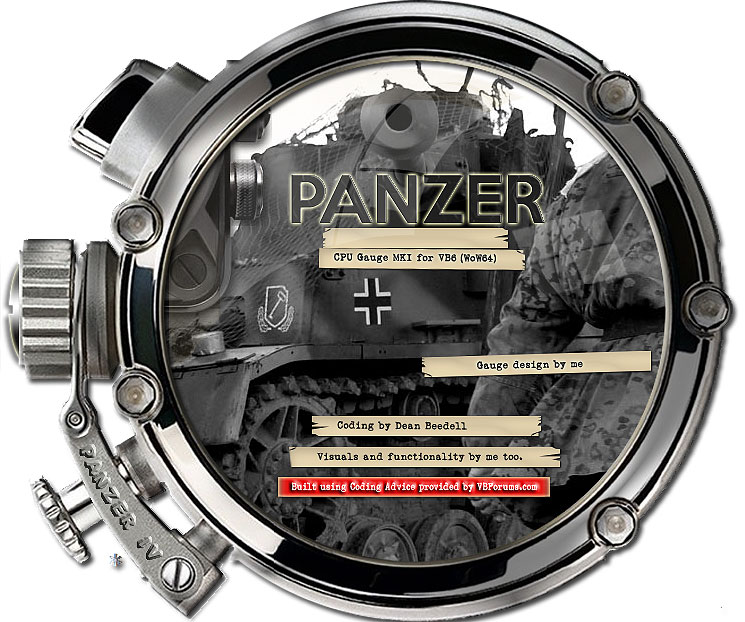
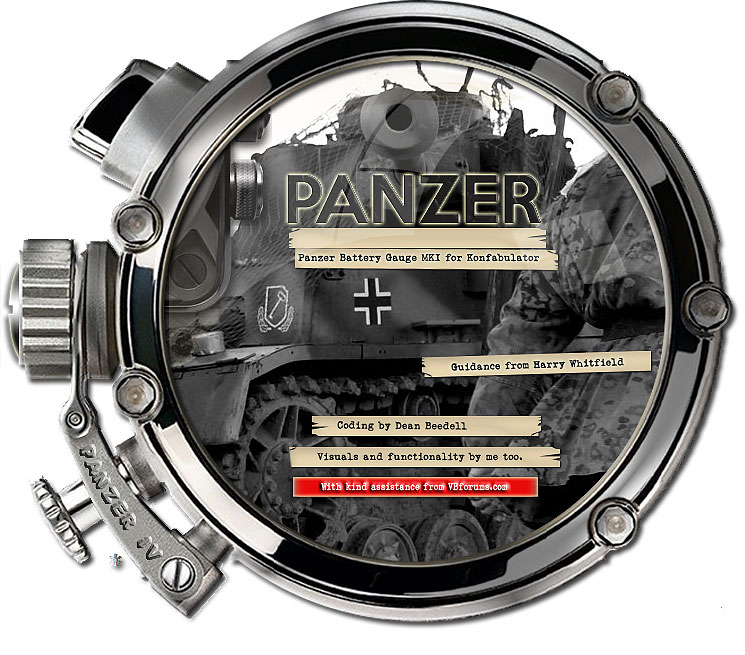
help html created, images updated

diff --git a/help/Panzer Battery Gauge.html b/help/Panzer Battery Gauge.html
@@ -1,7 +1,7 @@
 <!DOCTYPE html PUBLIC "-//W3C//DTD HTML 4.01 Transitional//EN">
 <html>
 <head>
-  <title>Panzer CPU Gauge Cairo Widget Help</title>
+  <title>Panzer Battery Gauge Cairo Widget Help</title>
 
 
   <meta content="text/html; charset=ISO-8859-1" http-equiv="content-type">
@@ -11,7 +11,7 @@
 
 <body>
 
-<h1>Panzer CPU Gauge VB6 Cairo Widget ver. 0.0.65 <br>
+<h1>Panzer Battery Gauge VB6 Cairo Widget ver. 0.0.01 <br>
 
 </h1>
 
@@ -19,29 +19,31 @@ Document Version No. 00001<br>
 
 <br>
 
-<img style="width: 1678px; height: 1043px;" title="Showing Panzer CPU Gauge in operation on Windows 10" src="Panzer-CPU-Gauge-onDesktop.jpg" alt="Showing Panzer CPU Gauge in operation on Windows 10">
+<img style="width: 1678px; height: 1043px;" title="Showing Panzer CPU Gauge in operation on Windows 10" src="Panzer-CPU-Gauge-onDesktop.jpg" alt="Showing Panzer Battery Gauge in operation on Windows 10">
 <big style="font-weight: bold;"><br>
 
 </big><span style="font-weight: bold;">Fig 01.
-Showing The Panzer </span><big style="font-weight: bold;">CPU
+Showing The Panzer </span><big style="font-weight: bold;">Battery
 Gauge</big><span style="font-weight: bold;"> Widget
 in operation on Windows,
 (top right)</span><br>
 
 <big style="font-weight: bold;"><br>
 
-Welcome to the Panzer CPU Gauge Widget.</big><br>
+Welcome to the Panzer Battery Gauge Widget.</big><br>
 
 <br>
 
 <img style="width: 48px; height: 48px; float: left;" alt="sauron.png" title="sauron.png" src="sauron.png">The
-Panzer CPU Gauge VB6 &nbsp;is a useful utility displaying the
-CPU usage of all cores combined
+Panzer Battery Gauge VB6 &nbsp;is a useful utility displaying the
+Battery usage of your laptop
 in a dieselpunk fashion on your desktop. It can be resized and placed
 anywhere on your desktop. It uses minimal resources and helps give your
-desktop a dieselpunk make-over. This help file describes just the CPU
+desktop a dieselpunk make-over. This help file describes just the
+Battery
 Gauge widget and not the other widgets shown above. The others
-are javascript desktop widgets that will be converted to VB6 'widgets'
+are a combination of javascript and VB6 desktop widgets, the older .js
+versions will be converted to VB6 'widgets'
 one at a time as time allows.<br>
 
 <br>
@@ -81,6 +83,11 @@ choose to contribute.<br>
 
 <br>
 
+Please note that some of the images below refer to identical widgets
+with a different name. The functionality will be the same.<br>
+
+<br>
+
 <div class="indent">
 <h3>Installation</h3>
 
@@ -103,7 +110,7 @@ version beforehand</span>.<br>
 <h3>Anti Virus Tools</h3>
 
 <img style="width: 48px; height: 48px; float: left;" alt="sauron.png" title="sauron.png" src="sauron.png">
-When you install the Panzer CPU Gauge Widget for the first time you
+When you install the Panzer Battery Gauge Widget for the first time you
 will
 need to accept that your anti-virus tool will pause the installation to
 test the installation program for malware. Due to this program being
@@ -123,7 +130,7 @@ this utility is on github. You can view and edit that code at your
 leisure and you can even compile the code for yourself. This should
 give you the confidence that you need. There is a link on the tool's
 right click menu that will take you straight through to the github page
-here: <a href="https://github.com/yereverluvinunclebert/Panzer-CPU-Gauge-VB6">https://github.com/yereverluvinunclebert/Panzer-CPU-Gauge-VB6</a><br>
+here: <a href="https://github.com/yereverluvinunclebert/Panzer-Battery-Gauge-VB6">https://github.com/yereverluvinunclebert/Panzer-Battery-Gauge-VB6</a><br>
 
 <br>
 
@@ -134,12 +141,13 @@ installation on my system: When Avast first encounters the SETUP.EXE
 file
 it will test this for malware, it takes approx. 20-30 seconds to
 complete a scan. Let it finish. Once done, the setup will then run the
-installation and finally it will run Panzer CPU Gauge
+installation and finally it will run Panzer Battery Gauge
 Cairo Widget itself. At this point Avast will do another scan to test
-the Panzer CPU Gauge Widget program binary (the .exe file) which will
+the Panzer Battery Gauge Widget program binary (the .exe file) which
+will
 take
 another 30 seconds or so. When that second scan is complete you will
-find the Panzer CPU Gauge on your desktop running nomally.<br>
+find the Panzer Battery Gauge on your desktop running nomally.<br>
 
 <br>
 
@@ -174,17 +182,20 @@ install and run the
 widget for the first time it will present you with the licence screen
 and launch the prefs. You must accept the licence terms to proceed
 further. The Preference screen allows you to configure the
-functionality of &nbsp;the CPU Gauge component of the Panzer CPU
+functionality of &nbsp;the Battery Gauge component of the Panzer
+Battery
 Gauge
-'widget'. The CPU Gauge will then appear on your main monitor,
+'widget'. The Battery Gauge will then appear on your main monitor,
 animating slowly using minimal resources. This widget can be increased
 in size, animation speed can be changed,
 opacity/transparency may be set as to the user's discretion. The widget
 can also be made to hide for a pre-determined period. If the
 application is already running then you can double-click to run a new
-instance of the binary and you will have two or more CPU Gauges running
+instance of the binary and you will have two or more Battery Gauges
+running
 on
-the desktop. As each Panzer CPU Gauge running program is a mere desktop
+the desktop. As each Panzer Battery Gauge running program is a mere
+desktop
 'Widget',
 each
 instance will not appear on the taskbar unless you configure it to do
@@ -193,10 +204,10 @@ your other programs and sit quietly on the desktop doing their 'thing'.<br>
 
 <br>
 
-<img style="width: 380px; height: 348px;" alt="earth-small.jpg" title="earth-small.jpg" src="widgetOnWhite.jpg"><br>
+<img style="width: 256px; height: 256px;" alt="the gauge" title="the gauge" src="Icon.jpg"><br>
 
 <span style="font-weight: bold;">Fig 01a.
-Showing The Panzer CPU Gauge Widget&nbsp;in large mode.<br>
+Showing The Panzer Battery Gauge Widget&nbsp;in large mode.<br>
 
 <br>
 
@@ -210,7 +221,7 @@ response as shown below.</p>
 
 </p>
 
-<img style="width: 984px; height: 801px;" alt="the help image" title="the help image" src="panzergauge-help.jpg"><br>
+<img style="width: 750px; height: 624px;" alt="the help image" title="the help image" src="panzergauge-help.jpg"><br>
 
 <span style="font-weight: bold;">
 Fig&nbsp;</span><span style="font-weight: bold;">01b</span><span style="font-weight: bold;">. The Help Window.</span><br>
@@ -276,12 +287,18 @@ overhead of the pointer, simply disable it.<br>
 
 <br>
 
+<h3><img src="BATTERY-GAUGE-001.jpg" alt=""></h3>
+
+<br>
+
+<br>
+
 <h3>Menus &amp; Other Options</h3>
 
 <p><img style="width: 936px; height: 768px;" alt="PzEarth showing right click menu options." title="PzEarth showing right click menu options." src="menu01.jpg"><br>
 
 <span style="font-weight: bold;">
-Fig 02. Panzer CPU Gauge Widget showing right click menu options.</span></p>
+Fig 02. Panzer Battery Gauge Widget showing right click menu options.</span></p>
 
 <p><span style="color: rgb(0, 0, 0); font-family: &quot;Times New Roman&quot;; font-size: medium; font-style: normal; font-weight: 400; letter-spacing: normal; orphans: 2; text-align: left; text-indent: 0px; text-transform: none; white-space: normal; widows: 2; word-spacing: 0px; display: inline ! important; float: none;">You
 will note the use of the&nbsp;Centurion Light SF at 8pt on all the
@@ -311,7 +328,7 @@ anywhere on the dock.</p>
 <p><img style="width: 683px; height: 551px;" alt="SteamyDock right click menu options when an application is already running." title="SteamyDock right click menu options when an application is already running." src="menu.jpg"><br>
 
 <span style="font-weight: bold;">
-Fig 03. Panzer CPU Gauge Widget right click menu options&nbsp;.</span></p>
+Fig 03. Panzer Battery Gauge Widget right click menu options&nbsp;.</span></p>
 
 <p><span style="font-weight: bold;"></span></p>
 
@@ -320,7 +337,7 @@ Fig 03. Panzer CPU Gauge Widget right click menu options&nbsp;.</span></p>
 <span style="font-weight: bold;"></span><span style="font-weight: bold;"><br>
 
 </span>
-<h2><span style="font-weight: bold;">About </span><span style="font-weight: bold;">Panzer CPU Gauge Cairo Widget</span></h2>
+<h2><span style="font-weight: bold;">About </span><span style="font-weight: bold;">Panzer Battery Gauge Cairo Widget</span></h2>
 
 <span style="font-weight: bold;"><br>
 
@@ -333,7 +350,7 @@ document.<br>
 
 <br>
 
-<img style="width: 745px; height: 622px;" alt="about" src="about.jpg"> <br>
+<img style="width: 745px; height: 655px;" alt="about" src="about.jpg"> <br>
 
 <span style="font-weight: bold;">
 Fig 04. The About Window.<br>
@@ -368,7 +385,8 @@ then it would be really appreciated.<br>
 
 <br>
 
-<span style="font-weight: bold;">Panzer CPU Gauge Gauge
+<span style="font-weight: bold;">Panzer Battery Gauge
+Gauge
 Help.</span><br>
 
 <br>
@@ -378,7 +396,7 @@ will appear.<br>
 
 <br>
 
-<img style="width: 984px; height: 801px;" alt="the help image" title="the help image" src="panzergauge-help.jpg"><br>
+<img style="width: 750px; height: 624px;" alt="the help image" title="the help image" src="panzergauge-help.jpg"><br>
 
 <span style="font-weight: bold;">
 Fig 05. The Help Window.<br>
@@ -518,10 +536,12 @@ to find the application quickly.<br>
 
 <br>
 
-This option quietly stops and restarts the Panzer CPU Gauge Widget. On
+This option quietly stops and restarts the Panzer Battery Gauge Widget.
+On
 the very rare
 occasion
-that the Panzer CPU Gauge Widget&nbsp;has a tiny problem, possibly
+that the Panzer Battery Gauge Widget&nbsp;has a tiny problem,
+possibly
 due to an
 unforeseen bug - in that case&nbsp;you can simply reset
 it by
@@ -544,7 +564,8 @@ use the restart binary to restart itself.<br>
 <br>
 
 This menu option only appears if the DEBUG selection option is ON in
-the Development Preferences. In the prefs, enter the path here to CPU
+the Development Preferences. In the prefs, enter the path here to
+Battery
 Gauge widget's
 .vbp file (a VB6 project file). If the widget's source code has been
 downloaded from github, unpacked and placed somewhere
@@ -598,6 +619,10 @@ settings/preferences, by default it is 1 minute.<br>
 
 <br>
 
+<h3><br>
+
+</h3>
+
 <br>
 
 <span style="font-weight: bold;"></span><br>
@@ -628,9 +653,10 @@ required for the program to operate correctly. <br>
 You can enable or disable the smooth
 pointer&nbsp;functionality.&nbsp;</span><span style="color: rgb(0, 0, 0); font-family: &quot;Times New Roman&quot;; font-size: medium; font-style: normal; font-weight: 400; letter-spacing: normal; orphans: 2; text-align: left; text-indent: 0px; text-transform: none; white-space: normal; widows: 2; word-spacing: 0px; display: inline ! important; float: none;">T</span><span style="color: rgb(0, 0, 0); font-family: &quot;Times New Roman&quot;; font-size: medium; font-style: normal; font-weight: 400; letter-spacing: normal; orphans: 2; text-align: left; text-indent: 0px; text-transform: none; white-space: normal; widows: 2; word-spacing: 0px; display: inline ! important; float: none;">his
 will
-slightly increase CPU usage as it forces the widget to use a more
+slightly increase Battery usage as it forces the widget to use a more
 frequent timer that works on a 20ms access time, when placing the hands</span><span style="color: rgb(0, 0, 0); font-family: &quot;Times New Roman&quot;; font-size: medium; font-style: normal; font-weight: 400; letter-spacing: normal; orphans: 2; text-align: left; text-indent: 0px; text-transform: none; white-space: normal; widows: 2; word-spacing: 0px; display: inline ! important; float: none;">.&nbsp;</span><span style="color: rgb(0, 0, 0); font-family: &quot;Times New Roman&quot;; font-size: medium; font-style: normal; font-weight: 400; letter-spacing: normal; orphans: 2; text-align: left; text-indent: 0px; text-transform: none; white-space: normal; widows: 2; word-spacing: 0px; display: inline ! important; float: none;"></span><span style="color: rgb(0, 0, 0); font-family: &quot;Times New Roman&quot;; font-size: medium; font-style: normal; font-weight: 400; letter-spacing: normal; orphans: 2; text-align: left; text-indent: 0px; text-transform: none; white-space: normal; widows: 2; word-spacing: 0px; display: inline ! important; float: none;">On
-modern systems the CPU usage of this widget is negligible less being
+modern systems the Battery usage of this widget is negligible less
+being
 than 0.1%. As a result&nbsp;the
 overhead can be safely ignored. The function to disable the widget is
 merely here to replicate the functionality of the Yahoo and Xwidget
@@ -639,7 +665,7 @@ versions of this widget. <br>
 <br>
 
 The sampling interval controls the frequency with which the program
-will request a CPU usage update from the o/s. Three to five second
+will request a Battery usage update from the o/s. Three to five second
 interval is sensible.<br>
 
 <br>
@@ -659,7 +685,7 @@ Fig 08. The Config Prefs pane.<br>
 
 </span><img style="width: 48px; height: 48px; float: left;" alt="sauron.png" title="sauron.png" src="sauron.png"><span style="color: rgb(0, 0, 0); font-family: &quot;Times New Roman&quot;; font-size: medium; font-style: normal; font-weight: 400; letter-spacing: normal; orphans: 2; text-align: left; text-indent: 0px; text-transform: none; white-space: normal; widows: 2; word-spacing: 0px; display: inline ! important; float: none;">The
 configuration panel is the location for optional configuration items.
-These items change how Panzer CPU Gauge operates. Configure them to
+These items change how Panzer Battery Gauge operates. Configure them to
 suit your
 needs and your mode of operation. </span><span style="color: rgb(0, 0, 0); font-family: &quot;Times New Roman&quot;; font-size: medium; font-style: normal; font-weight: 400; letter-spacing: normal; orphans: 2; text-align: left; text-indent: 0px; text-transform: none; white-space: normal; widows: 2; word-spacing: 0px; display: inline ! important; float: none;">You
 may&nbsp;adjust the
@@ -737,7 +763,7 @@ This is the recommended font for use with this utility giving it a
 suitably old-fashioned feel.</span><span style="color: rgb(0, 0, 0); font-family: &quot;Times New Roman&quot;; font-size: medium; font-style: normal; font-weight: 400; letter-spacing: normal; orphans: 2; text-align: left; text-indent: 0px; text-transform: none; white-space: normal; widows: 2; word-spacing: 0px; display: inline ! important; float: none;">&nbsp;</span><span style="color: rgb(0, 0, 0); font-family: &quot;Times New Roman&quot;; font-size: medium; font-style: normal; font-weight: 400; letter-spacing: normal; orphans: 2; text-align: left; text-indent: 0px; text-transform: none; white-space: normal; widows: 2; word-spacing: 0px; display: inline ! important; float: none;">You
 will find the </span><span style="color: rgb(0, 0, 0); font-family: &quot;Times New Roman&quot;; font-size: medium; font-style: normal; font-weight: 400; letter-spacing: normal; orphans: 2; text-align: left; text-indent: 0px; text-transform: none; white-space: normal; widows: 2; word-spacing: 0px; display: inline ! important; float: none;">Centurion
 Light SF font </span><span style="color: rgb(0, 0, 0); font-family: &quot;Times New Roman&quot;; font-size: medium; font-style: normal; font-weight: 400; letter-spacing: normal; orphans: 2; text-align: left; text-indent: 0px; text-transform: none; white-space: normal; widows: 2; word-spacing: 0px; display: inline ! important; float: none;">below
-the Panzer CPU Gauge
+the Panzer Battery Gauge
 program resources folder in the "other" directory. You install this
 font by double-clicking on the TTF file. If this font is not installed
 and
